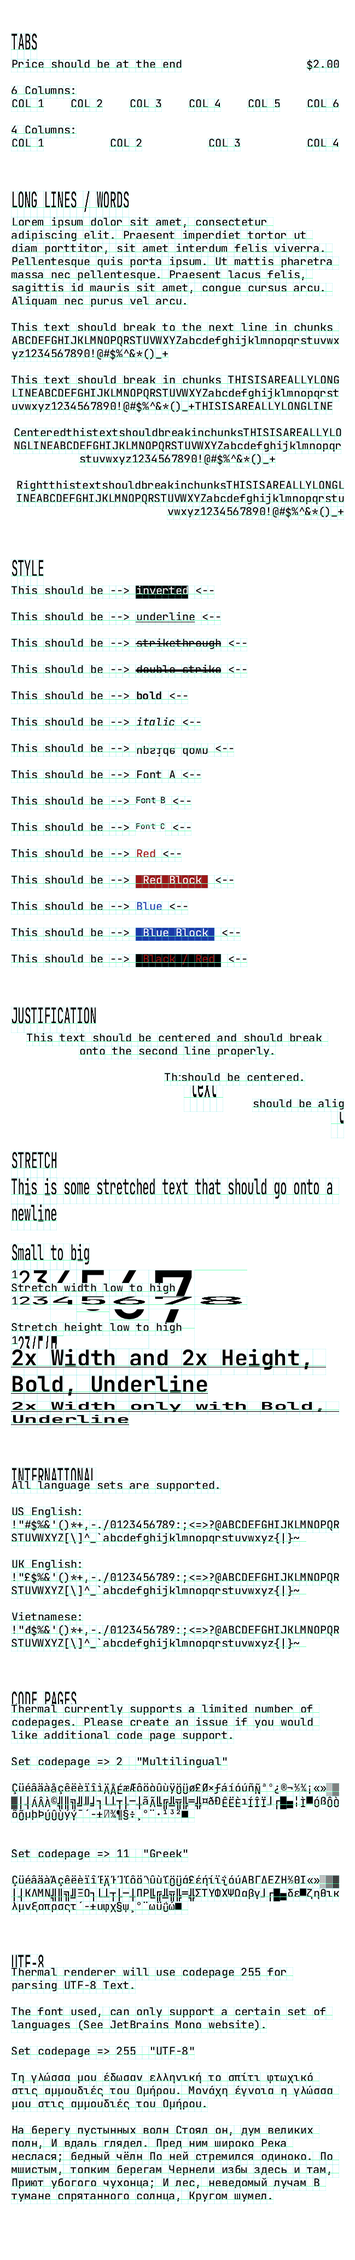
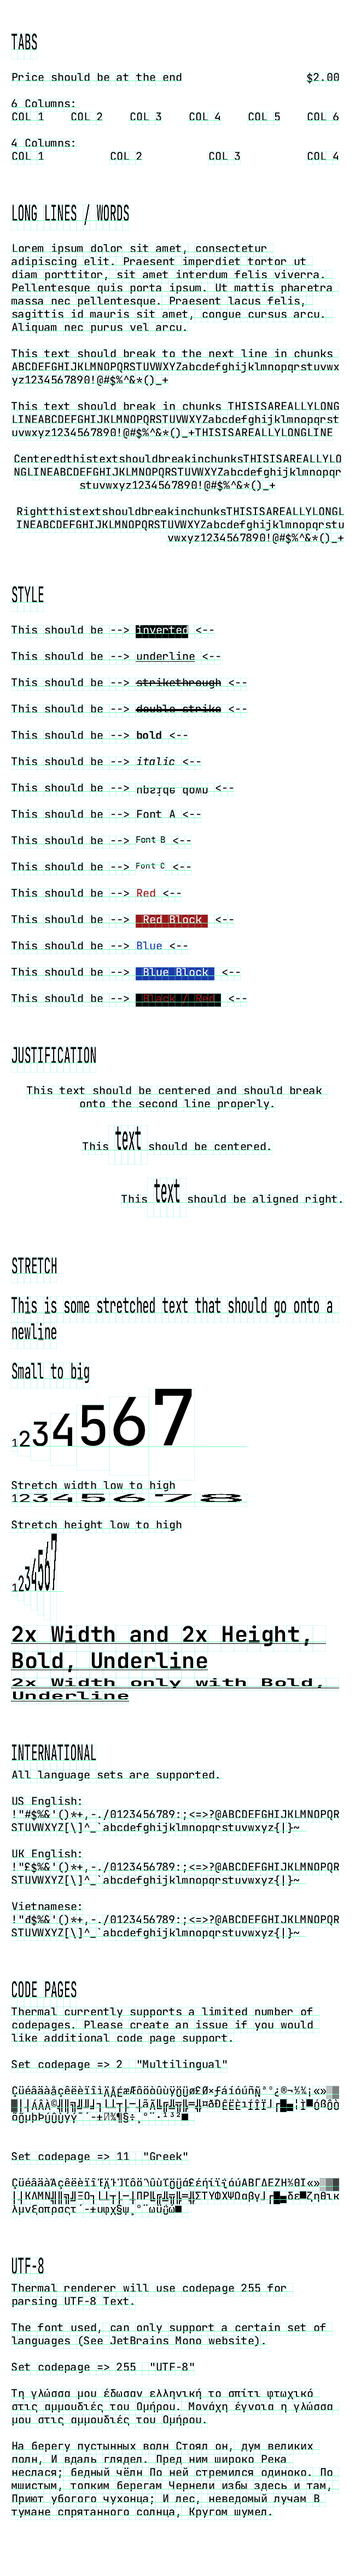
Fix issues with text rendering and text collection

diff --git a/sample_files/out/html/typography.thermal.html b/sample_files/out/html/typography.thermal.html
@@ -172,69 +172,76 @@
 <span style='left: 396px; top: 0px' class=''>THISISAREALLYLONG</span></p><p style='height: 24px; margin-top: 0px'><span style='left: 0px; top: 0px' class=''>LINEABCDEFGHIJKLMNOPQRSTUVWXYZabcdefghijklmnopqrst</span></p><p style='height: 24px; margin-top: 0px'><span style='left: 0px; top: 0px' class=''>uvwxyz1234567890!@#$%^&*()_+THISISAREALLYLONGLINE</span></p><p style='height: 24px; margin-top: 24px'><span style='left: 4px; top: 0px' class=''>CenteredthistextshouldbreakinchunksTHISISAREALLYLO</span></p><p style='height: 24px; margin-top: 0px'><span style='left: 4px; top: 0px' class=''>NGLINEABCDEFGHIJKLMNOPQRSTUVWXYZabcdefghijklmnopqr</span></p><p style='height: 24px; margin-top: 0px'><span style='left: 124px; top: 0px' class=''>stuvwxyz1234567890!@#$%^&*()_+</span></p><p style='height: 24px; margin-top: 24px'><span style='left: 9px; top: 0px' class=''>RightthistextshouldbreakinchunksTHISISAREALLYLONGL</span></p><p style='height: 24px; margin-top: 0px'><span style='left: 9px; top: 0px' class=''>INEABCDEFGHIJKLMNOPQRSTUVWXYZabcdefghijklmnopqrstu</span></p><p style='height: 24px; margin-top: 0px'><span style='left: 285px; top: 0px' class=''>vwxyz1234567890!@#$%^&*()_+</span></p><p style='height: 48px; margin-top: 72px'><span style='left: 0px; top: 0px' class='h2 str'>STYLE</span></p><p style='height: 24px; margin-top: 24px'><span style='left: 0px; top: 0px' class=''>This </span>
 <span style='left: 60px; top: 0px' class=''>should </span>
 <span style='left: 144px; top: 0px' class=''>be </span>
-<span style='left: 180px; top: 0px' class=''>--> </span>
-<span style='left: 228px; top: 0px' class='in'>inverted</span>
-<span style='left: 324px; top: 0px' class=''> </span>
+<span style='left: 180px; top: 0px' class=''>--> </span></p><p style='height: 24px; margin-top: 0px'><span style='left: 228px; top: 0px' class='in'>inverted</span></p><p style='height: 24px; margin-top: 0px'><span style='left: 324px; top: 0px' class=''> </span>
 <span style='left: 336px; top: 0px' class=''><--</span></p><p style='height: 24px; margin-top: 24px'><span style='left: 0px; top: 0px' class=''>This </span>
 <span style='left: 60px; top: 0px' class=''>should </span>
 <span style='left: 144px; top: 0px' class=''>be </span>
-<span style='left: 180px; top: 0px' class=''>--> </span>
-<span style='left: 228px; top: 0px' class='u ud'>underline</span>
-<span style='left: 336px; top: 0px' class=''> </span>
+<span style='left: 180px; top: 0px' class=''>--> </span></p><p style='height: 24px; margin-top: 0px'><span style='left: 228px; top: 0px' class='u ud'>underline</span></p><p style='height: 24px; margin-top: 0px'><span style='left: 336px; top: 0px' class=''> </span>
 <span style='left: 348px; top: 0px' class=''><--</span></p><p style='height: 24px; margin-top: 24px'><span style='left: 0px; top: 0px' class=''>This </span>
 <span style='left: 60px; top: 0px' class=''>should </span>
 <span style='left: 144px; top: 0px' class=''>be </span>
-<span style='left: 180px; top: 0px' class=''>--> </span>
-<span style='left: 228px; top: 0px' class='s sd'>strikethrough</span>
-<span style='left: 384px; top: 0px' class=''> </span>
+<span style='left: 180px; top: 0px' class=''>--> </span></p><p style='height: 24px; margin-top: 0px'><span style='left: 228px; top: 0px' class='s sd'>strikethrough</span></p><p style='height: 24px; margin-top: 0px'><span style='left: 384px; top: 0px' class=''> </span>
 <span style='left: 396px; top: 0px' class=''><--</span></p><p style='height: 24px; margin-top: 24px'><span style='left: 0px; top: 0px' class=''>This </span>
 <span style='left: 60px; top: 0px' class=''>should </span>
 <span style='left: 144px; top: 0px' class=''>be </span>
-<span style='left: 180px; top: 0px' class=''>--> </span>
-<span style='left: 228px; top: 0px' class='s sd'>double </span>
-<span style='left: 312px; top: 0px' class='s sd'>strike</span>
-<span style='left: 384px; top: 0px' class=''> </span>
+<span style='left: 180px; top: 0px' class=''>--> </span></p><p style='height: 24px; margin-top: 0px'><span style='left: 228px; top: 0px' class='s sd'>double </span>
+<span style='left: 312px; top: 0px' class='s sd'>strike</span></p><p style='height: 24px; margin-top: 0px'><span style='left: 384px; top: 0px' class=''> </span>
 <span style='left: 396px; top: 0px' class=''><--</span></p><p style='height: 24px; margin-top: 24px'><span style='left: 0px; top: 0px' class=''>This </span>
 <span style='left: 60px; top: 0px' class=''>should </span>
 <span style='left: 144px; top: 0px' class=''>be </span>
-<span style='left: 180px; top: 0px' class=''>--> </span>
-<span style='left: 228px; top: 0px' class='b'>bold</span>
-<span style='left: 276px; top: 0px' class=''> </span>
+<span style='left: 180px; top: 0px' class=''>--> </span></p><p style='height: 24px; margin-top: 0px'><span style='left: 228px; top: 0px' class='b'>bold</span></p><p style='height: 24px; margin-top: 0px'><span style='left: 276px; top: 0px' class=''> </span>
 <span style='left: 288px; top: 0px' class=''><--</span></p><p style='height: 24px; margin-top: 24px'><span style='left: 0px; top: 0px' class=''>This </span>
 <span style='left: 60px; top: 0px' class=''>should </span>
 <span style='left: 144px; top: 0px' class=''>be </span>
-<span style='left: 180px; top: 0px' class=''>--> </span>
-<span style='left: 228px; top: 0px' class='i'>italic</span>
-<span style='left: 300px; top: 0px' class=''> </span>
+<span style='left: 180px; top: 0px' class=''>--> </span></p><p style='height: 24px; margin-top: 0px'><span style='left: 228px; top: 0px' class='i'>italic</span></p><p style='height: 24px; margin-top: 0px'><span style='left: 300px; top: 0px' class=''> </span>
 <span style='left: 312px; top: 0px' class=''><--</span></p><p style='height: 24px; margin-top: 24px'><span style='left: 0px; top: 0px' class=''>This </span>
 <span style='left: 60px; top: 0px' class=''>should </span>
 <span style='left: 144px; top: 0px' class=''>be </span>
-<span style='left: 180px; top: 0px' class=''>--> </span>
-<span style='left: 228px; top: 0px' class='upd'>upside </span>
-<span style='left: 312px; top: 0px' class='upd'>down</span>
-<span style='left: 360px; top: 0px' class=''> </span>
+<span style='left: 180px; top: 0px' class=''>--> </span></p><p style='height: 24px; margin-top: 0px'><span style='left: 228px; top: 0px' class='upd'>upside </span>
+<span style='left: 312px; top: 0px' class='upd'>down</span></p><p style='height: 24px; margin-top: 0px'><span style='left: 360px; top: 0px' class=''> </span>
 <span style='left: 372px; top: 0px' class=''><--</span></p><p style='height: 24px; margin-top: 24px'><span style='left: 0px; top: 0px' class=''>This </span>
 <span style='left: 60px; top: 0px' class=''>should </span>
 <span style='left: 144px; top: 0px' class=''>be </span>
-<span style='left: 180px; top: 0px' class=''>--> </span>
-<span style='left: 228px; top: 0px' class=''>Font </span>
-<span style='left: 288px; top: 0px' class=''>A</span>
-<span style='left: 300px; top: 0px' class=''> </span>
+<span style='left: 180px; top: 0px' class=''>--> </span></p><p style='height: 24px; margin-top: 0px'><span style='left: 228px; top: 0px' class=''>Font </span>
+<span style='left: 288px; top: 0px' class=''>A</span></p><p style='height: 24px; margin-top: 0px'><span style='left: 300px; top: 0px' class=''> </span>
 <span style='left: 312px; top: 0px' class=''><--</span></p><p style='height: 24px; margin-top: 24px'><span style='left: 0px; top: 0px' class=''>This </span>
 <span style='left: 60px; top: 0px' class=''>should </span>
 <span style='left: 144px; top: 0px' class=''>be </span>
-<span style='left: 180px; top: 0px' class=''>--> </span>
-<span style='left: 228px; top: 0px' class=''>Font </span>
-<span style='left: 288px; top: 0px' class=''>B</span>
-<span style='left: 300px; top: 0px' class=''> </span>
-<span style='left: 312px; top: 0px' class=''><--</span></p><p style='height: 24px; margin-top: 24px'><span style='left: 0px; top: 0px' class=''>This </span>
+<span style='left: 180px; top: 0px' class=''>--> </span></p><p style='height: 17px; margin-top: 0px'><span style='left: 228px; top: 0px' class=''>Font </span>
+<span style='left: 273px; top: 0px' class=''>B</span></p><p style='height: 24px; margin-top: 0px'><span style='left: 282px; top: 0px' class=''> </span>
+<span style='left: 294px; top: 0px' class=''><--</span></p><p style='height: 24px; margin-top: 24px'><span style='left: 0px; top: 0px' class=''>This </span>
 <span style='left: 60px; top: 0px' class=''>should </span>
 <span style='left: 144px; top: 0px' class=''>be </span>
-<span style='left: 180px; top: 0px' class=''>--> </span>
-<span style='left: 228px; top: 0px' class=''>Font </span>
-<span style='left: 288px; top: 0px' class=''>C</span>
-<span style='left: 300px; top: 0px' class=''> </span>
-<span style='left: 312px; top: 0px' class=''><--</span></p><p style='height: 48px; margin-top: 72px'><span style='left: 0px; top: 0px' class='h2 str'>JUSTIFICATION</span></p><p style='height: 24px; margin-top: 24px'><span style='left: 28px; top: 0px' class=''>This </span>
+<span style='left: 180px; top: 0px' class=''>--> </span></p><p style='height: 17px; margin-top: 0px'><span style='left: 228px; top: 0px' class=''>Font </span>
+<span style='left: 273px; top: 0px' class=''>C</span></p><p style='height: 24px; margin-top: 0px'><span style='left: 282px; top: 0px' class=''> </span>
+<span style='left: 294px; top: 0px' class=''><--</span></p><p style='height: 24px; margin-top: 24px'><span style='left: 0px; top: 0px' class=''>This </span>
+<span style='left: 60px; top: 0px' class=''>should </span>
+<span style='left: 144px; top: 0px' class=''>be </span>
+<span style='left: 180px; top: 0px' class=''>--> </span></p><p style='height: 24px; margin-top: 0px'><span style='left: 228px; top: 0px' class=''>Red</span></p><p style='height: 24px; margin-top: 0px'><span style='left: 264px; top: 0px' class=''> </span>
+<span style='left: 276px; top: 0px' class=''><--</span></p><p style='height: 24px; margin-top: 24px'><span style='left: 0px; top: 0px' class=''>This </span>
+<span style='left: 60px; top: 0px' class=''>should </span>
+<span style='left: 144px; top: 0px' class=''>be </span>
+<span style='left: 180px; top: 0px' class=''>--> </span></p><p style='height: 24px; margin-top: 0px'><span style='left: 228px; top: 0px' class=''> </span>
+<span style='left: 240px; top: 0px' class=''>Red </span>
+<span style='left: 288px; top: 0px' class=''>Block </span></p><p style='height: 24px; margin-top: 0px'><span style='left: 360px; top: 0px' class=''> </span>
+<span style='left: 372px; top: 0px' class=''><--</span></p><p style='height: 24px; margin-top: 24px'><span style='left: 0px; top: 0px' class=''>This </span>
+<span style='left: 60px; top: 0px' class=''>should </span>
+<span style='left: 144px; top: 0px' class=''>be </span>
+<span style='left: 180px; top: 0px' class=''>--> </span></p><p style='height: 24px; margin-top: 0px'><span style='left: 228px; top: 0px' class=''>Blue</span></p><p style='height: 24px; margin-top: 0px'><span style='left: 276px; top: 0px' class=''> </span>
+<span style='left: 288px; top: 0px' class=''><--</span></p><p style='height: 24px; margin-top: 24px'><span style='left: 0px; top: 0px' class=''>This </span>
+<span style='left: 60px; top: 0px' class=''>should </span>
+<span style='left: 144px; top: 0px' class=''>be </span>
+<span style='left: 180px; top: 0px' class=''>--> </span></p><p style='height: 24px; margin-top: 0px'><span style='left: 228px; top: 0px' class=''> </span>
+<span style='left: 240px; top: 0px' class=''>Blue </span>
+<span style='left: 300px; top: 0px' class=''>Block </span></p><p style='height: 24px; margin-top: 0px'><span style='left: 372px; top: 0px' class=''> </span>
+<span style='left: 384px; top: 0px' class=''><--</span></p><p style='height: 24px; margin-top: 24px'><span style='left: 0px; top: 0px' class=''>This </span>
+<span style='left: 60px; top: 0px' class=''>should </span>
+<span style='left: 144px; top: 0px' class=''>be </span>
+<span style='left: 180px; top: 0px' class=''>--> </span></p><p style='height: 24px; margin-top: 0px'><span style='left: 228px; top: 0px' class=''> </span>
+<span style='left: 240px; top: 0px' class=''>Black </span>
+<span style='left: 312px; top: 0px' class=''>/ </span>
+<span style='left: 336px; top: 0px' class=''>Red </span></p><p style='height: 24px; margin-top: 0px'><span style='left: 384px; top: 0px' class=''> </span>
+<span style='left: 396px; top: 0px' class=''><--</span></p><p style='height: 48px; margin-top: 72px'><span style='left: 0px; top: 0px' class='h2 str'>JUSTIFICATION</span></p><p style='height: 24px; margin-top: 24px'><span style='left: 28px; top: 0px' class=''>This </span>
 <span style='left: 88px; top: 0px' class=''>text </span>
 <span style='left: 148px; top: 0px' class=''>should </span>
 <span style='left: 232px; top: 0px' class=''>be </span>
@@ -301,7 +308,7 @@
 <span style='left: 216px; top: 0px' class='b w2 h2 str u ud'>and </span>
 <span style='left: 312px; top: 0px' class='b w2 h2 str u ud'>2x </span>
 <span style='left: 384px; top: 0px' class='b w2 h2 str u ud'>Height, </span></p><p style='height: 48px; margin-top: 0px'><span style='left: 0px; top: 0px' class='b w2 h2 str u ud'>Bold, </span>
-<span style='left: 144px; top: 0px' class='b w2 h2 str u ud'>Underline</span></p><p style='height: 24px; margin-top: 24px'><span style='left: 0px; top: 0px' class='b w2 str u ud'>2x </span>
+<span style='left: 144px; top: 0px' class='b w2 h2 str u ud'>Underline</span></p><p style='height: 24px; margin-top: 0px'><span style='left: 0px; top: 0px' class='b w2 str u ud'>2x </span>
 <span style='left: 72px; top: 0px' class='b w2 str u ud'>Width </span>
 <span style='left: 216px; top: 0px' class='b w2 str u ud'>only </span>
 <span style='left: 336px; top: 0px' class='b w2 str u ud'>with </span>

diff --git a/sample_files/out/html/issuing_receipts.thermal.html b/sample_files/out/html/issuing_receipts.thermal.html
@@ -92,13 +92,15 @@
 <span style='left: 244px; top: 0px' class='w2 h2 str'>EPSON </span>
 <span style='left: 388px; top: 0px' class='w2 h2 str'> </span>
 <span style='left: 412px; top: 0px' class='w2 h2 str'> </span>
-<span style='left: 436px; top: 0px' class='w2 h2 str'>║</span></p><p style='height: 48px; margin-top: 0px'><span style='left: 256px; top: 0px' class='w2 h2 str'>║ </span>
-<span style='left: 304px; top: 0px' class='w2 h2 str'> </span>
-<span style='left: 328px; top: 0px' class='w2 h2 str'> </span></p><p style='height: 24px; margin-top: 0px'><span style='left: 340px; top: 0px' class=''>Thank </span>
-<span style='left: 412px; top: 0px' class=''>you </span></p><p style='height: 48px; margin-top: 0px'><span style='left: 472px; top: 0px' class='w2 h2 str'> </span>
-<span style='left: 496px; top: 0px' class='w2 h2 str'> </span>
-<span style='left: 520px; top: 0px' class='w2 h2 str'> </span>
-<span style='left: 544px; top: 0px' class='w2 h2 str'>║</span></p><p style='height: 48px; margin-top: 0px'><span style='left: 148px; top: 0px' class='w2 h2 str'>╚═══════════╝</span></p><p style='height: 24px; margin-top: 4px'><span style='left: 166px; top: 0px' class=''>NOVEMBER </span>
+<span style='left: 436px; top: 0px' class='w2 h2 str'>║</span></p><p style='height: 48px; margin-top: 0px'><span style='left: 148px; top: 0px' class='w2 h2 str'>║ </span>
+<span style='left: 196px; top: 0px' class='w2 h2 str'> </span>
+<span style='left: 220px; top: 0px' class='w2 h2 str'> </span>
+<span style='left: 244px; top: 18px' class=''>Thank </span>
+<span style='left: 316px; top: 18px' class=''>you </span>
+<span style='left: 364px; top: 0px' class='w2 h2 str'> </span>
+<span style='left: 388px; top: 0px' class='w2 h2 str'> </span>
+<span style='left: 412px; top: 0px' class='w2 h2 str'> </span>
+<span style='left: 436px; top: 0px' class='w2 h2 str'>║</span></p><p style='height: 48px; margin-top: 0px'><span style='left: 148px; top: 0px' class='w2 h2 str'>╚═══════════╝</span></p><p style='height: 24px; margin-top: 4px'><span style='left: 166px; top: 0px' class=''>NOVEMBER </span>
 <span style='left: 274px; top: 0px' class=''>1, </span>
 <span style='left: 310px; top: 0px' class=''>2012 </span>
 <span style='left: 370px; top: 0px' class=''> </span>
@@ -280,13 +282,15 @@
 <span style='left: 244px; top: 0px' class='w2 h2 str'>EPSON </span>
 <span style='left: 388px; top: 0px' class='w2 h2 str'> </span>
 <span style='left: 412px; top: 0px' class='w2 h2 str'> </span>
-<span style='left: 436px; top: 0px' class='w2 h2 str'>║</span></p><p style='height: 48px; margin-top: 0px'><span style='left: 256px; top: 0px' class='w2 h2 str'>║ </span>
-<span style='left: 304px; top: 0px' class='w2 h2 str'> </span>
-<span style='left: 328px; top: 0px' class='w2 h2 str'> </span></p><p style='height: 24px; margin-top: 0px'><span style='left: 340px; top: 0px' class=''>Thank </span>
-<span style='left: 412px; top: 0px' class=''>you </span></p><p style='height: 48px; margin-top: 0px'><span style='left: 472px; top: 0px' class='w2 h2 str'> </span>
-<span style='left: 496px; top: 0px' class='w2 h2 str'> </span>
-<span style='left: 520px; top: 0px' class='w2 h2 str'> </span>
-<span style='left: 544px; top: 0px' class='w2 h2 str'>║</span></p><p style='height: 48px; margin-top: 0px'><span style='left: 148px; top: 0px' class='w2 h2 str'>╚═══════════╝</span></p><p style='height: 24px; margin-top: 4px'><span style='left: 166px; top: 0px' class=''>NOVEMBER </span>
+<span style='left: 436px; top: 0px' class='w2 h2 str'>║</span></p><p style='height: 48px; margin-top: 0px'><span style='left: 148px; top: 0px' class='w2 h2 str'>║ </span>
+<span style='left: 196px; top: 0px' class='w2 h2 str'> </span>
+<span style='left: 220px; top: 0px' class='w2 h2 str'> </span>
+<span style='left: 244px; top: 18px' class=''>Thank </span>
+<span style='left: 316px; top: 18px' class=''>you </span>
+<span style='left: 364px; top: 0px' class='w2 h2 str'> </span>
+<span style='left: 388px; top: 0px' class='w2 h2 str'> </span>
+<span style='left: 412px; top: 0px' class='w2 h2 str'> </span>
+<span style='left: 436px; top: 0px' class='w2 h2 str'>║</span></p><p style='height: 48px; margin-top: 0px'><span style='left: 148px; top: 0px' class='w2 h2 str'>╚═══════════╝</span></p><p style='height: 24px; margin-top: 4px'><span style='left: 166px; top: 0px' class=''>NOVEMBER </span>
 <span style='left: 274px; top: 0px' class=''>1, </span>
 <span style='left: 310px; top: 0px' class=''>2012 </span>
 <span style='left: 370px; top: 0px' class=''> </span>

diff --git a/thermal_parser/src/commands/set_character_size.rs b/thermal_parser/src/commands/set_character_size.rs
@@ -1,15 +1,19 @@
 use crate::{command::*, constants::*, context::*};
+use crate::command::DeviceCommand::{SetTextHeight, SetTextWidth};
 
 #[derive(Clone)]
 struct Handler;
 
 //See https://reference.epson-biz.com/modules/ref_escpos/index.php?content_id=34
 impl CommandHandler for Handler {
-    fn apply_context(&self, command: &Command, context: &mut Context) {
+    fn get_device_command(&self, command: &Command, _context: &Context) -> Option<Vec<DeviceCommand>> {
         let n = *command.data.get(0).unwrap_or(&0u8);
         let stretch = parse_stretch(n);
-        context.text.width_mult = stretch.0;
-        context.text.height_mult = stretch.1;
+
+        Some(vec![
+            SetTextWidth(stretch.0),
+            SetTextHeight(stretch.1),
+        ])
     }
 
     fn debug(&self, command: &Command, _context: &Context) -> String {
@@ -21,12 +25,10 @@ impl CommandHandler for Handler {
 
 fn parse_stretch(value: u8) -> (u8, u8) {
     //last 4,5,6 bits masked
-    //   ---
     //11110101 -> 00000101
     let h = 0b00000111 & value + 1;
 
     //bit 1,2,3 masked and shifted all the way to the right // ***
-    // ---
     //01010101 -> 01010000 -> 00000101
     let w = ((0b01110000 & value) >> 4) + 1;
 
@@ -37,7 +39,7 @@ pub fn new() -> Command {
     Command::new(
         "Set Character Size",
         vec![GS, '!' as u8],
-        CommandType::Context,
+        CommandType::Control,
         DataType::Single,
         Box::new(Handler {}),
     )

diff --git a/thermal_renderer/src/renderer.rs b/thermal_renderer/src/renderer.rs
@@ -160,7 +160,6 @@ impl<'a, Output> Renderer<'a, Output> {
                 self.process_device_commands(device_commands);
             }
             CommandType::Control => {
-                self.process_text();
                 let device_commands = &command
                     .handler
                     .get_device_command(command, &mut self.context);
@@ -177,6 +176,21 @@ impl<'a, Output> Renderer<'a, Output> {
                     .device_command(&mut self.context, device_command);
 
                 match device_command {
+                    //Some commands should not attempt to collect text
+                    DeviceCommand::SetTextHeight(_) | DeviceCommand::SetTextWidth(_) => {}
+                    _ => self.process_text()
+                }
+                
+                match device_command {
+                    DeviceCommand::SetTextWidth(w) => {
+                        self.context.text.width_mult = *w;
+                    }
+                    DeviceCommand::SetTextHeight(h) => {
+                        self.context.text.height_mult = *h;
+                    }
+                    DeviceCommand::Justify(j) => {
+                        self.context.text.justify = j.clone();
+                    }
                     DeviceCommand::BeginPrint => {
                         //Start the render at two newlines worth of height
                         self.context.newline(2);

diff --git a/thermal_parser/src/commands/set_justification.rs b/thermal_parser/src/commands/set_justification.rs
@@ -1,17 +1,21 @@
 use crate::{command::*, constants::*, context::*};
+use crate::command::DeviceCommand::Justify;
 
 #[derive(Clone)]
 struct Handler;
 
 impl CommandHandler for Handler {
-    fn apply_context(&self, command: &Command, context: &mut Context) {
+    fn get_device_command(&self, command: &Command, _context: &Context) -> Option<Vec<DeviceCommand>> {
         let n = *command.data.get(0).unwrap_or(&0u8);
-        context.text.justify = match n {
-            0 | 48 => TextJustify::Left,
-            1 | 49 => TextJustify::Center,
-            2 | 50 => TextJustify::Right,
-            _ => TextJustify::Left,
-        }
+        
+        Some(vec![Justify(
+            match n {
+                0 | 48 => TextJustify::Left,
+                1 | 49 => TextJustify::Center,
+                2 | 50 => TextJustify::Right,
+                _ => TextJustify::Left,
+            }    
+        )])
     }
 }
 
@@ -19,7 +23,7 @@ pub fn new() -> Command {
     Command::new(
         "Set Text Justification",
         vec![ESC, 'a' as u8],
-        CommandType::Context,
+        CommandType::Control,
         DataType::Single,
         Box::new(Handler {}),
     )

diff --git a/thermal_parser/src/command.rs b/thermal_parser/src/command.rs
@@ -1,4 +1,4 @@
-use crate::context::Context;
+use crate::context::{Context, TextJustify};
 use crate::graphics::GraphicsCommand;
 use crate::text::TextSpan;
 use std::rc::Rc;
@@ -19,6 +19,9 @@ pub enum DeviceCommand {
     PrintPageMode,
     ChangePageModeDirection,
     ChangePageArea,
+    Justify(TextJustify),
+    SetTextWidth(u8),
+    SetTextHeight(u8),
     ChangeTabs(u8, u8),
     Transmit(Vec<u8>),
     MoveX(u16),
@@ -46,6 +49,9 @@ impl DeviceCommand {
             Self::Transmit(_b) => "Transmit Data Back".to_string(),
             Self::MoveX(_n) => "Move Horizontally".to_string(),
             Self::ClearBufferGraphics => "Clear Buffer Graphics".to_string(),
+            Self::Justify(n) => format!("Justify {:?}", n),
+            Self::SetTextWidth(_) => "Scale Text Width".to_string(),
+            Self::SetTextHeight(_) => "Scale Text Height".to_string(),
         }
     }
 }
